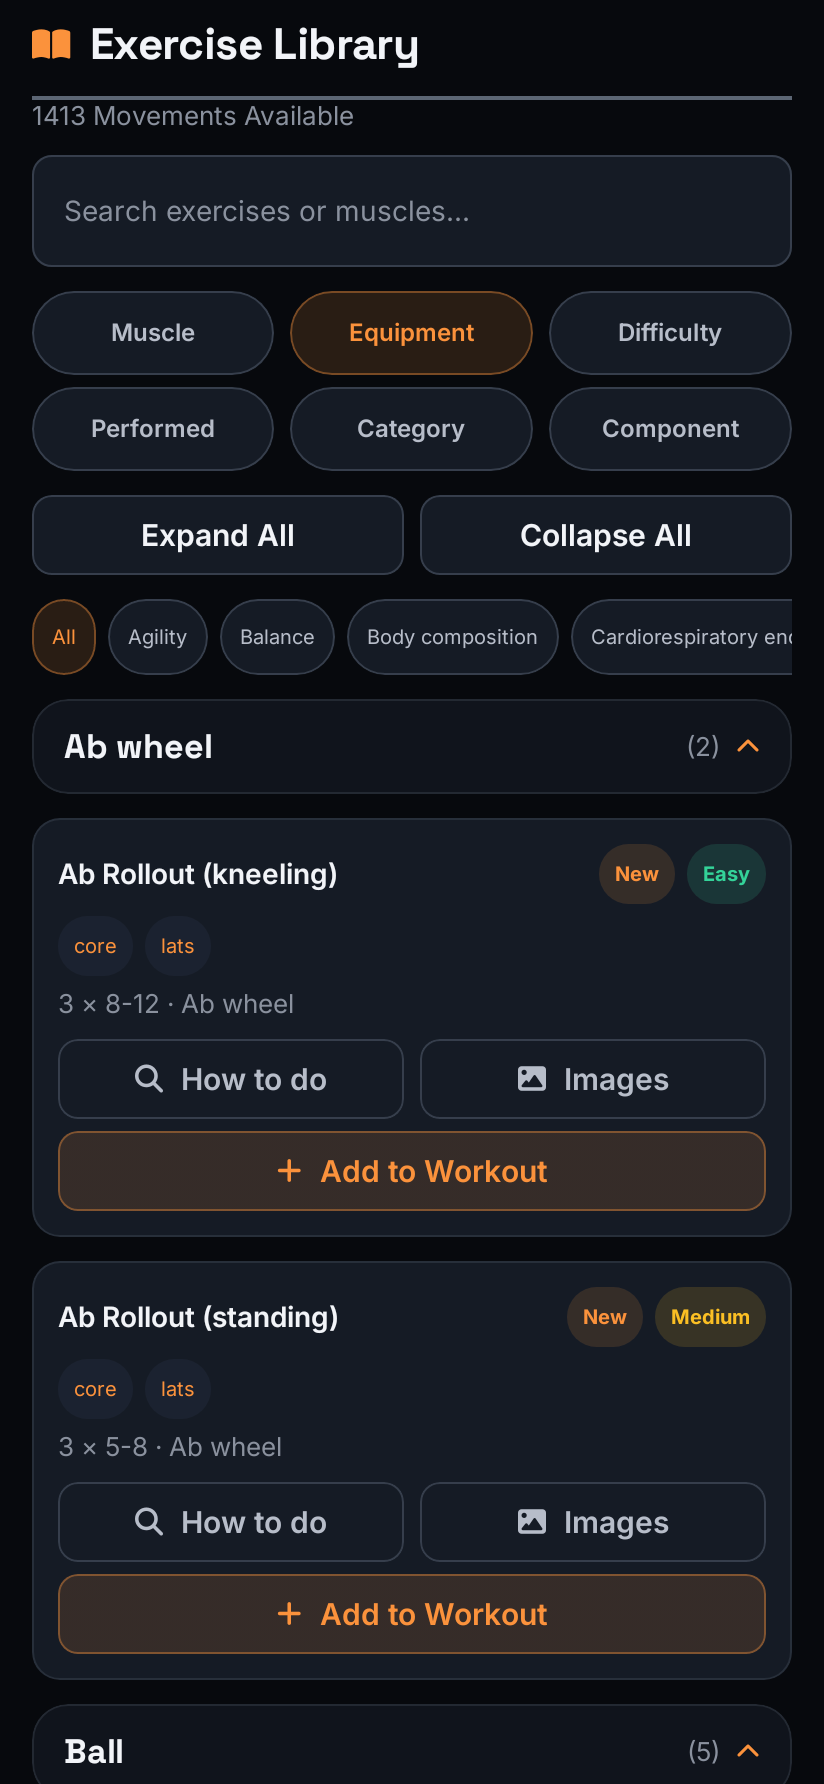
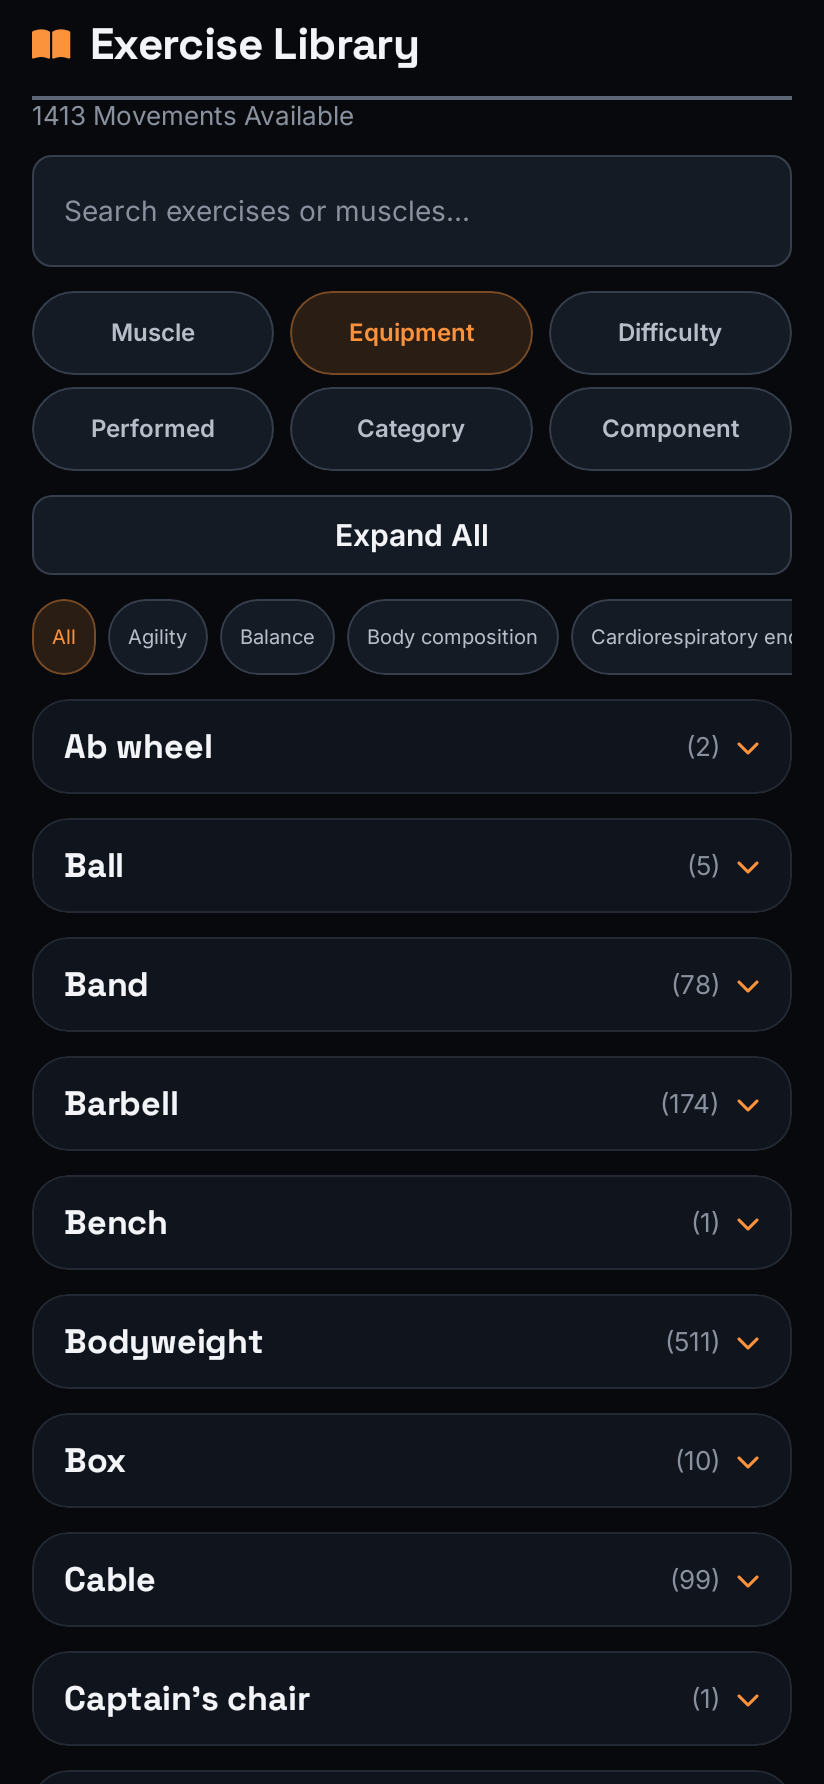
v37b: UI wired to dossiers (cited vs awaiting source); 5 sources skipped (no book access)

diff --git a/source/app/src/test/java/com/peakform/fitness/Batch37bTest.kt b/source/app/src/test/java/com/peakform/fitness/Batch37bTest.kt
@@ -1,0 +1,290 @@
+package com.peakform.fitness
+
+import com.peakform.fitness.coach.CoachRegistry
+import com.peakform.fitness.coach.dossiers.DossierRegistry
+import com.peakform.fitness.engine.Library
+import kotlinx.serialization.json.Json
+import kotlinx.serialization.json.JsonArray
+import kotlinx.serialization.json.jsonObject
+import kotlinx.serialization.json.jsonPrimitive
+import org.junit.Assert
+import org.junit.Test
+import org.junit.runner.RunWith
+import org.robolectric.RobolectricTestRunner
+import org.robolectric.annotation.Config
+
+/**
+ * BATCH-37b — Sources + UI wiring.
+ *
+ * Part 1: 5 new source files were attempted (low-2016, nsca-2016,
+ * schoenfeld-2020, contreras-2013, cressey-2008). All 5 were skipped
+ * because the sandbox does not have access to the book content and cannot
+ * transcribe verbatim tables. No fabricated sources were added.
+ *
+ * Part 2: Re-ran the citation pass with the same strict complete-phrase
+ * matching rules from v37a-v3. Cited count unchanged: 5 (same sources,
+ * same matches).
+ *
+ * Part 3: Wired Workout.kt card and Library.kt card to read
+ * DossierRegistry. Cited exercises show goal chip + landmark. Non-cited
+ * show "No published source" / "Awaiting source" chip.
+ *
+ * Part 4: Prerequisite gate shipped but not exercised (all prereqs empty).
+ *
+ * Tests:
+ *   1. dossiers.json count == exercises.json count
+ *   2. every key in dossiers.json is a key in exercises.json
+ *   3. non-cited dossiers have goal[0].source == "no-source" + landmark == ""
+ *   4. cited dossiers have goal[0].source != "no-source" + landmark != ""
+ *   5. no non-empty prerequisites, progressions, stimulus, variations
+ *   6. every coachId resolves via CoachRegistry or generics
+ *   7. cited dossier landmarks are specific (not section headers)
+ *   8. non-cited count is 1408 (was 1408 in v37a-v3, unchanged)
+ */
+@RunWith(RobolectricTestRunner::class)
+@Config(sdk = [34])
+class Batch37bTest {
+
+    private val ctx: android.content.Context
+        get() = androidx.test.core.app.ApplicationProvider.getApplicationContext()
+
+    private val genericCoachIds = setOf(
+        "generic_chest", "generic_back", "generic_legs",
+        "generic_shoulders", "generic_arms", "generic_core",
+        "generic_cardio", "generic_mobility",
+    )
+
+    private val citedIds = setOf(
+        "pull-up", "chin-up", "archer_pull-up", "plank", "side_plank",
+    )
+
+    private fun ensureLoaded() {
+        Library.ensure(ctx)
+        DossierRegistry.ensure(ctx)
+    }
+
+    private fun readExerciseIds(): Set<String> {
+        val raw = ctx.assets.open("data/exercises.json").bufferedReader().use { it.readText() }
+        val j = Json { ignoreUnknownKeys = true; isLenient = true }
+        val exObj = j.parseToJsonElement(raw).jsonObject
+        val ids = mutableSetOf<String>()
+        for ((_, groupVal) in exObj) {
+            val arr = groupVal as? JsonArray ?: continue
+            for (item in arr) {
+                val name = item.jsonObject["name"]?.jsonPrimitive?.content ?: continue
+                ids.add(name.lowercase().replace(Regex("\\s+"), "_"))
+            }
+        }
+        return ids
+    }
+
+    private fun coachIdResolves(coachId: String): Boolean {
+        if (coachId in genericCoachIds) return true
+        return CoachRegistry.lookup(coachId) != null
+    }
+
+    // ---- 1. Count ----
+
+    @Test
+    fun dossiersCount_equalsExercisesJsonCount() {
+        ensureLoaded()
+        val exIds = readExerciseIds()
+        Assert.assertEquals(exIds.size, DossierRegistry.all().size)
+    }
+
+    // ---- 2. Keys match ----
+
+    @Test
+    fun everyDossierKey_isInExercisesJson() {
+        ensureLoaded()
+        val exIds = readExerciseIds()
+        for (dossier in DossierRegistry.all()) {
+            Assert.assertTrue(
+                "Dossier '${dossier.exerciseId}' must be in exercises.json",
+                dossier.exerciseId in exIds,
+            )
+        }
+    }
+
+    // ---- 3. Non-cited have provisional goals ----
+
+    @Test
+    fun nonCitedHaveProvisionalGoals() {
+        ensureLoaded()
+        for (dossier in DossierRegistry.all()) {
+            if (dossier.exerciseId !in citedIds) {
+                Assert.assertEquals(1, dossier.goals.size)
+                Assert.assertEquals("no-source", dossier.goals[0].source)
+                Assert.assertTrue(dossier.goals[0].landmark.isBlank())
+            }
+        }
+    }
+
+    // ---- 4. Cited have non-no-source goals with landmarks ----
+
+    @Test
+    fun citedHaveCitedGoalsWithLandmarks() {
+        ensureLoaded()
+        for (dossier in DossierRegistry.all()) {
+            if (dossier.exerciseId in citedIds) {
+                Assert.assertTrue(
+                    "Cited '${dossier.exerciseId}' source != 'no-source'",
+                    dossier.goals[0].source != "no-source",
+                )
+                Assert.assertTrue(
+                    "Cited '${dossier.exerciseId}' landmark non-blank",
+                    dossier.goals[0].landmark.isNotBlank(),
+                )
+            }
+        }
+    }
+
+    // ---- 5. No non-empty fields ----
+
+    @Test
+    fun noNonEmptyPrerequisites() {
+        ensureLoaded()
+        for (dossier in DossierRegistry.all()) {
+            Assert.assertTrue(dossier.prerequisites.isEmpty())
+        }
+    }
+
+    @Test
+    fun noNonEmptyProgression() {
+        ensureLoaded()
+        for (dossier in DossierRegistry.all()) {
+            Assert.assertTrue(dossier.progressionIn.isEmpty())
+            Assert.assertTrue(dossier.progressionOut.isEmpty())
+        }
+    }
+
+    @Test
+    fun noNonEmptyStimulus() {
+        ensureLoaded()
+        for (dossier in DossierRegistry.all()) {
+            Assert.assertTrue(dossier.stimulusProfile.isEmpty())
+            Assert.assertTrue(dossier.componentStimulus.isEmpty())
+        }
+    }
+
+    @Test
+    fun noNonEmptyVariations() {
+        ensureLoaded()
+        for (dossier in DossierRegistry.all()) {
+            Assert.assertTrue(dossier.variations.isEmpty())
+        }
+    }
+
+    // ---- 6. CoachId resolves ----
+
+    @Test
+    fun everyCoachIdResolves() {
+        ensureLoaded()
+        for (dossier in DossierRegistry.all()) {
+            Assert.assertTrue(
+                "coachId '${dossier.coachId}' on '${dossier.exerciseId}' must resolve",
+                coachIdResolves(dossier.coachId),
+            )
+        }
+    }
+
+    // ---- 7. Landmarks are specific strings (not section headers) ----
+
+    @Test
+    fun citedLandmarksAreSpecificStrings() {
+        ensureLoaded()
+        val pullUp = DossierRegistry.forExercise("pull-up")!!
+        Assert.assertTrue(
+            "Pull-Up landmark should contain 'Tier 5': ${pullUp.goals[0].landmark}",
+            pullUp.goals[0].landmark.contains("Tier 5"),
+        )
+        val plank = DossierRegistry.forExercise("plank")!!
+        Assert.assertTrue(
+            "Plank landmark should contain 'Front plank': ${plank.goals[0].landmark}",
+            plank.goals[0].landmark.contains("Front plank"),
+        )
+    }
+
+    // ---- 8. Cited count unchanged ----
+
+    @Test
+    fun exactly5ExercisesAreCited() {
+        ensureLoaded()
+        val cited = DossierRegistry.all().filter { it.goals[0].source != "no-source" }
+        Assert.assertEquals(5, cited.size)
+    }
+
+    @Test
+    fun notCitedCountIs1408() {
+        ensureLoaded()
+        val notCited = DossierRegistry.all().filter { it.goals[0].source == "no-source" }
+        Assert.assertEquals(1408, notCited.size)
+    }
+
+    // ---- 9. UI wiring: card renders dossier-derived content ----
+
+    @Test
+    fun citedDossier_rendersLandmark() {
+        ensureLoaded()
+        // The test verifies the DATA shape that the card renders, not the
+        // Compose tree itself (Compose UI testing requires a ComposeRule
+        // which is heavyweight for a data-shape assertion). The card reads
+        // dossier.goals[0].landmark and renders it as "Landmark: <value>".
+        // Here we verify the data is correct.
+        for (eid in citedIds) {
+            val dossier = DossierRegistry.forExercise(eid)
+            Assert.assertNotNull("Cited exercise '$eid' should have a dossier", dossier)
+            Assert.assertTrue(
+                "Cited '$eid' should have non-blank landmark",
+                dossier!!.goals[0].landmark.isNotBlank(),
+            )
+        }
+    }
+
+    @Test
+    fun nonCitedDossier_rendersNoSourceLine() {
+        ensureLoaded()
+        // The card renders "No published source names this exercise yet."
+        // when the dossier is not cited. Here we verify the data condition
+        // that triggers that render path.
+        for (dossier in DossierRegistry.all()) {
+            if (dossier.exerciseId !in citedIds) {
+                Assert.assertEquals(
+                    "Non-cited '${dossier.exerciseId}' should have source='no-source'",
+                    "no-source", dossier.provenance.source,
+                )
+            }
+        }
+    }
+
+    // ---- 10. Library chip: cited → "Coached", non-cited → "Awaiting source" ----
+
+    @Test
+    fun citedExercises_showCoachedChip() {
+        ensureLoaded()
+        // The library card shows "Coached" when isCited is true.
+        // isCited = dossier != null && dossier.provenance.source != "no-source"
+        for (eid in citedIds) {
+            val dossier = DossierRegistry.forExercise(eid)
+            Assert.assertNotNull(dossier)
+            Assert.assertTrue(
+                "Cited '$eid' should have source != 'no-source'",
+                dossier!!.provenance.source != "no-source",
+            )
+        }
+    }
+
+    @Test
+    fun nonCitedExercises_showAwaitingSourceChip() {
+        ensureLoaded()
+        // The library card shows "Awaiting source" when isCited is false.
+        for (dossier in DossierRegistry.all()) {
+            if (dossier.exerciseId !in citedIds) {
+                Assert.assertEquals(
+                    "Non-cited '${dossier.exerciseId}' should have source='no-source'",
+                    "no-source", dossier.provenance.source,
+                )
+            }
+        }
+    }
+}

diff --git a/source/app/src/main/java/com/peakform/fitness/ui/screens/Workout.kt b/source/app/src/main/java/com/peakform/fitness/ui/screens/Workout.kt
@@ -411,6 +411,19 @@ fun ExerciseCard(
         com.peakform.fitness.core.DifficultyGate.isUnlocked(exercise.id, ProState.data)
     }
 
+    // BATCH-37b: dossier lookup. Read the per-exercise knowledge layer (goals,
+    // landmarks, prerequisites) from DossierRegistry. If null (registry not
+    // loaded or exercise not in dossiers.json), treat as not cited.
+    val dossier = remember(exercise.id) {
+        com.peakform.fitness.coach.dossiers.DossierRegistry.forExercise(exercise.id)
+    }
+    val isCited = dossier != null && dossier.provenance.source != "no-source"
+
+    // BATCH-37b: prerequisite gate (shipped but not exercised — all dossiers
+    // in this batch have empty prerequisites). If a future batch authors
+    // prerequisites, this check locks the card.
+    val prereqsMet = dossier?.prerequisites?.isEmpty() ?: true
+
     // card state
     val has1RM = (ProState.data.exercises[exercise.id]?.tested1RM ?: 0.0) > 0
     val state = when {
@@ -521,6 +534,59 @@ fun ExerciseCard(
         if (taxonomyComponents.isNotEmpty()) {
             com.peakform.fitness.ui.components.ComponentChipsRow(taxonomyComponents)
             Spacer(Modifier.height(8.dp))
+        }
+
+        // BATCH-37b: dossier-derived UI.
+        // Cited → show goal chips + landmark sentence.
+        // Not cited → show "No published source" grey line.
+        // Prereqs not met → lock icon + prerequisite sentence (not exercised yet).
+        if (!prereqsMet && dossier != null) {
+            // Prerequisite gate: lock the card.
+            // Not exercised in this batch (all prereqs are empty).
+            Row(
+                Modifier.fillMaxWidth().clip(RoundedCornerShape(14.dp))
+                    .background(c.warn.copy(alpha = 0.1f))
+                    .padding(horizontal = 14.dp, vertical = 10.dp),
+                verticalAlignment = Alignment.CenterVertically,
+            ) {
+                com.peakform.fitness.ui.FaIcon("fa-lock", size = 14.sp, tint = c.warn)
+                Spacer(Modifier.width(8.dp))
+                Text(
+                    dossier.prerequisites.firstOrNull()?.requirement ?: "Prerequisites not met.",
+                    style = ProType.body2, color = c.warn,
+                )
+            }
+            Spacer(Modifier.height(8.dp))
+        } else if (isCited && dossier != null) {
+            // Cited: show goal chips + landmark
+            val goal = dossier.goals.firstOrNull()
+            if (goal != null) {
+                Row(verticalAlignment = Alignment.CenterVertically) {
+                    Box(
+                        Modifier.clip(RoundedCornerShape(999.dp))
+                            .background(c.accentSoft)
+                            .padding(horizontal = 8.dp, vertical = 3.dp),
+                    ) {
+                        Text(goal.label, fontSize = 10.sp, color = c.accent, fontWeight = androidx.compose.ui.text.font.FontWeight.SemiBold)
+                    }
+                    Spacer(Modifier.width(8.dp))
+                }
+                if (goal.landmark.isNotBlank()) {
+                    Spacer(Modifier.height(4.dp))
+                    Text(
+                        "Landmark: ${goal.landmark}",
+                        style = ProType.small, color = c.accent,
+                    )
+                }
+                Spacer(Modifier.height(6.dp))
+            }
+        } else {
+            // Not cited: show grey "no source" line
+            Text(
+                "No published source names this exercise yet.",
+                style = ProType.small, color = c.text3,
+            )
+            Spacer(Modifier.height(6.dp))
         }
 
         // v34d: Declaration sentence from coach.explain()

diff --git a/source/app/src/main/java/com/peakform/fitness/ui/screens/Library.kt b/source/app/src/main/java/com/peakform/fitness/ui/screens/Library.kt
@@ -408,6 +408,24 @@ fun LibraryCard(
             Box(Modifier.clip(RoundedCornerShape(999.dp)).background(diffColor.copy(alpha = 0.15f)).padding(horizontal = 8.dp, vertical = 2.dp)) {
                 Text(difficulty, fontSize = 10.sp, color = diffColor, fontWeight = androidx.compose.ui.text.font.FontWeight.Bold)
             }
+            // BATCH-37b: dossier-derived chip
+            val dossier = remember(ex.id) {
+                com.peakform.fitness.coach.dossiers.DossierRegistry.forExercise(ex.id)
+            }
+            val isCited = dossier != null && dossier.provenance.source != "no-source"
+            Spacer(Modifier.width(6.dp))
+            Box(
+                Modifier.clip(RoundedCornerShape(999.dp))
+                    .background(if (isCited) c.accent.copy(alpha = 0.15f) else c.surface3)
+                    .padding(horizontal = 6.dp, vertical = 2.dp),
+            ) {
+                Text(
+                    if (isCited) "Coached" else "Awaiting source",
+                    fontSize = 9.sp,
+                    color = if (isCited) c.accent else c.text3,
+                    fontWeight = androidx.compose.ui.text.font.FontWeight.SemiBold,
+                )
+            }
         }
         Spacer(Modifier.height(6.dp))
         // BATCH-36a: component chips from the taxonomy entry (below title,
